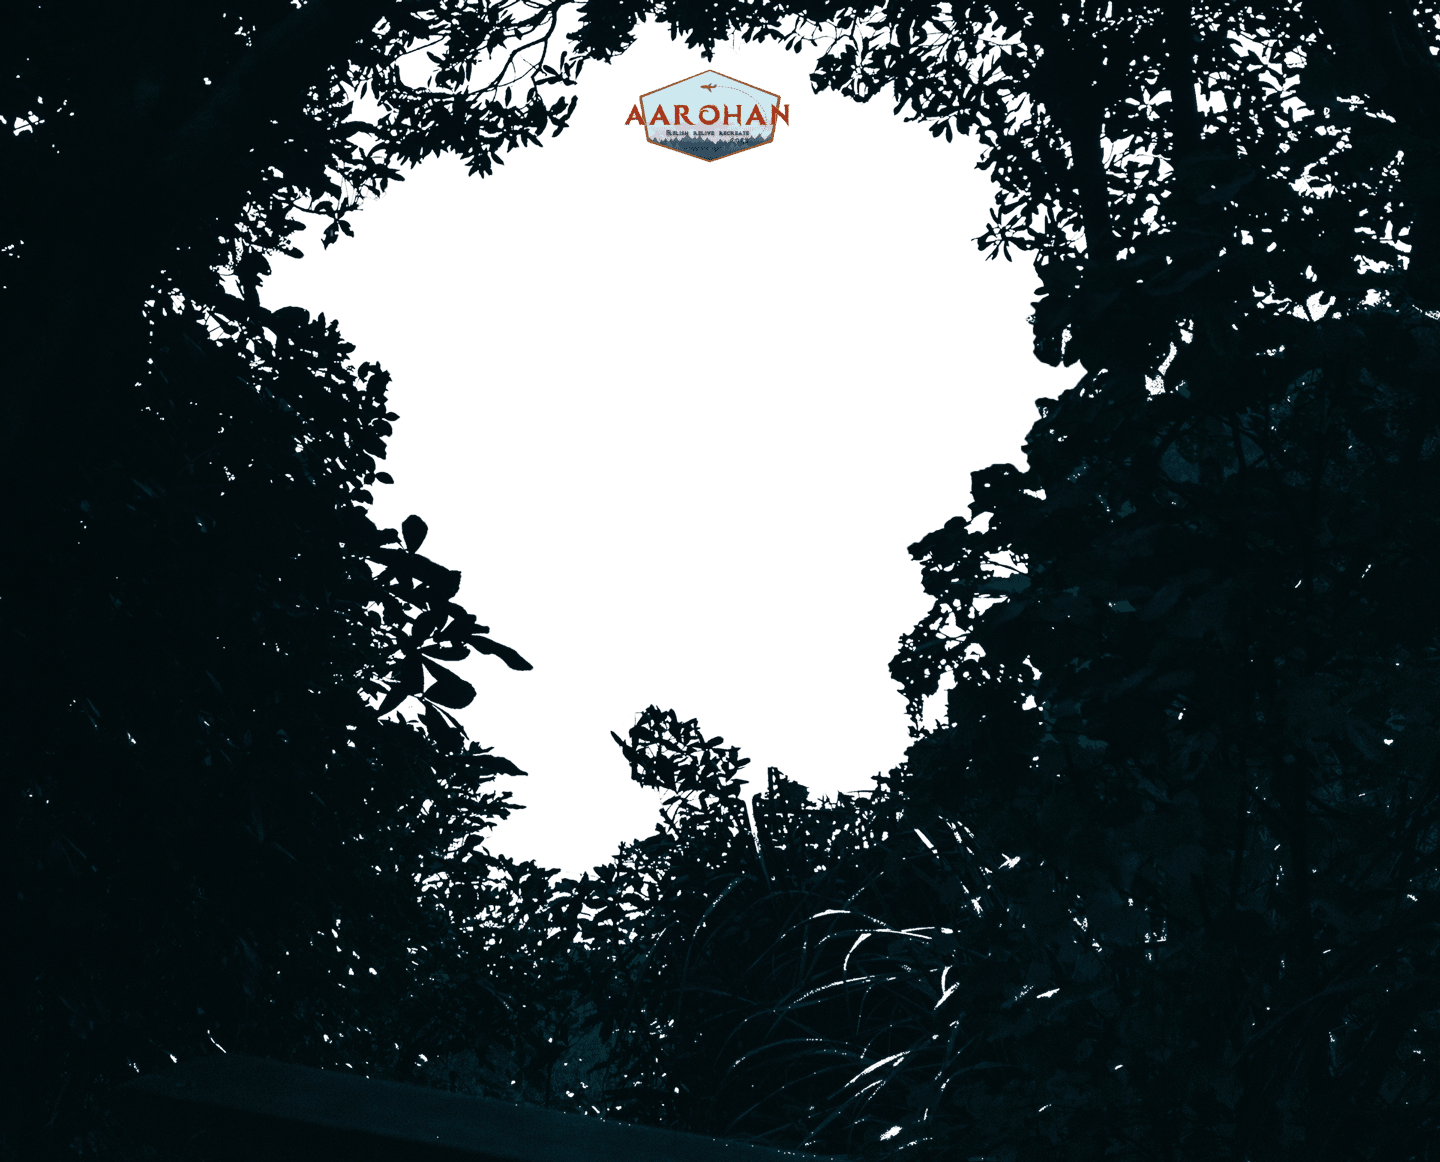
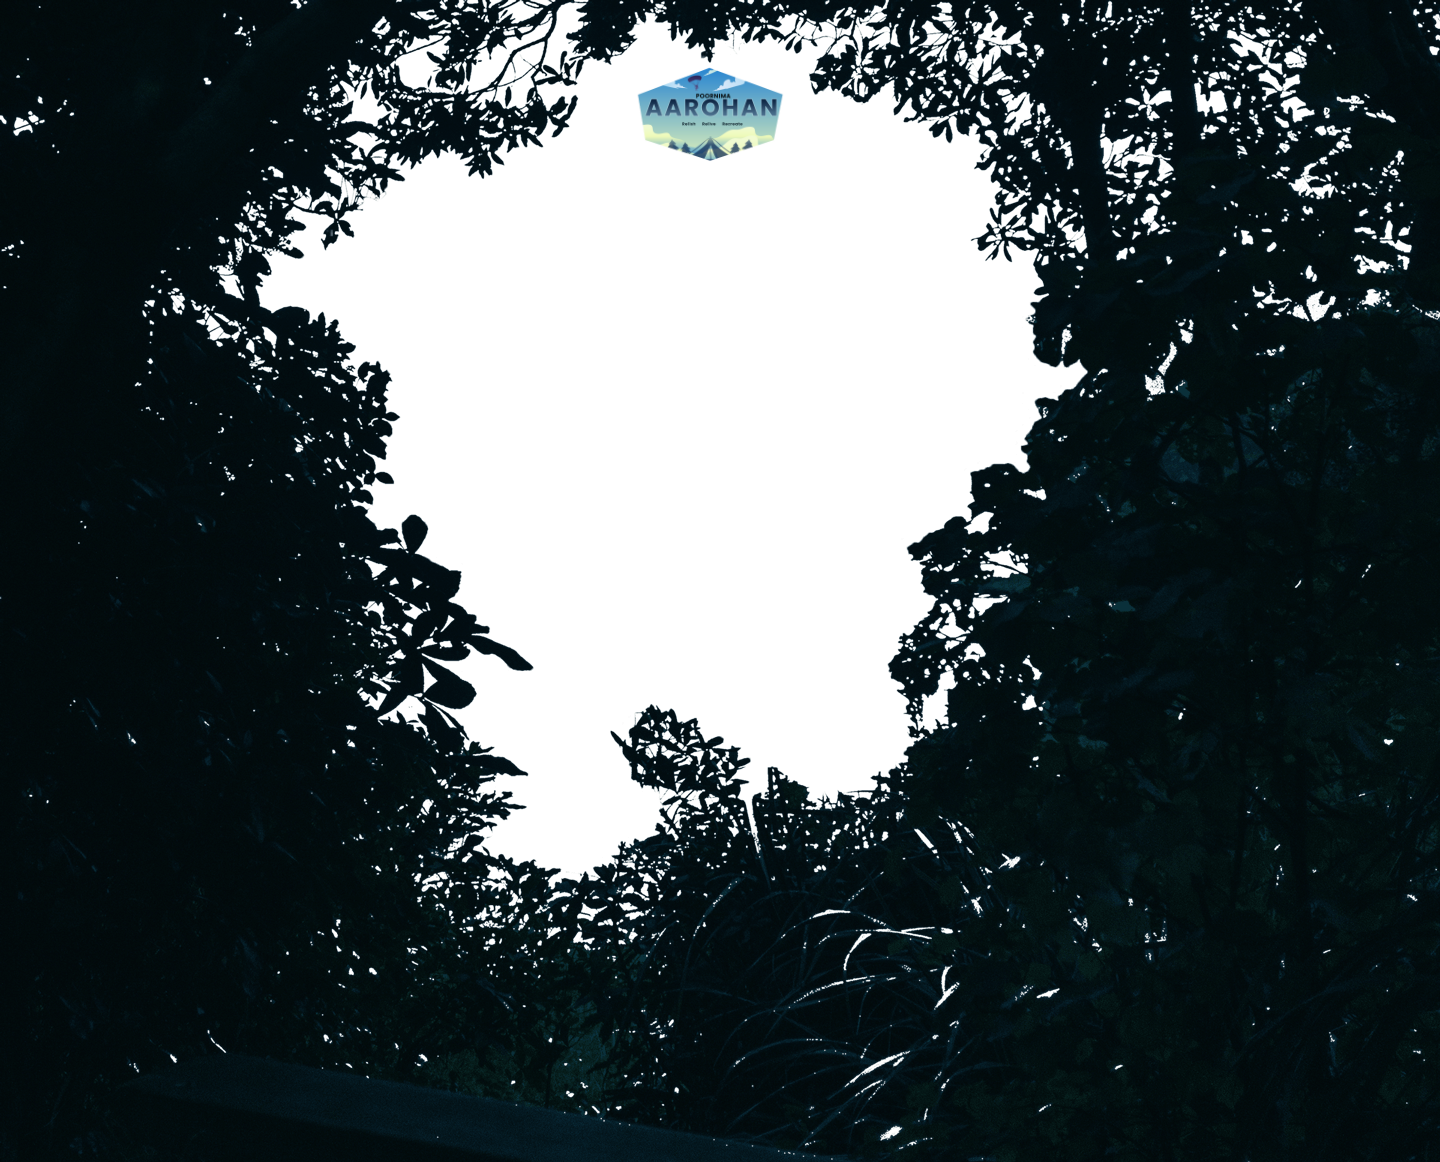
minor changes

Changed region(s): [[0.4375, 0.062, 0.5625, 0.1549]]

diff --git a/index.html b/index.html
@@ -1034,11 +1034,8 @@
 			<div class="hero-parent">
 				<div data-w-id="d71726fa-8aba-407f-0581-2d6e6f566dc1" style="opacity:0" class="sub-title">
 					Poornima Aarohan
-				</div><img src="tagl.png" width="428"
-					srcset="tagl.png 500w, https://uploads-ssl.webflow.com/5cff83ac2044e22cb8cf2f11/5cffeb65d43eb732944316c4_logo-p-800.png 800w, tagl.png 856w"
-					sizes="(max-width: 479px) 80vw, 428px" data-w-id="ca84ad73-51dc-7491-b9e2-9fc26309c49d"
-					style="opacity:0;-webkit-transform:translate3d(0, 50PX, 0) scale3d(1, 1, 1) rotateX(0) rotateY(0) rotateZ(0) skew(0, 0);-moz-transform:translate3d(0, 50PX, 0) scale3d(1, 1, 1) rotateX(0) rotateY(0) rotateZ(0) skew(0, 0);-ms-transform:translate3d(0, 50PX, 0) scale3d(1, 1, 1) rotateX(0) rotateY(0) rotateZ(0) skew(0, 0);transform:translate3d(0, 50PX, 0) scale3d(1, 1, 1) rotateX(0) rotateY(0) rotateZ(0) skew(0, 0)"
-					alt="" class="logo-lg" />
+				</div>
+				<p width="428" sizes="(max-width: 479px) 80vw, 428px" data-w-id="ca84ad73-51dc-7491-b9e2-9fc26309c49d" style="opacity: 1;font-family: cursive;transform: translate3d(0px, 0px, 0px) scale3d(1, 1, 1) rotateX(0deg) rotateY(0deg) rotateZ(0deg) skew(0deg, 0deg);font-size: 1.3rem;transform-style: preserve-3d;color: white;" alt="" class="logo-lg">Relish Relive Recreate</p>
 			</div>
 			<div class="intro-parent">
 				<h1 class="head">About Poornima Aarohan</h1>

diff --git a/webflow.css b/webflow.css
@@ -104,7 +104,7 @@ li {
   margin-left: 0px;
   font-family: Abuget, sans-serif;
   color: #fff;
-  font-size: 50px;
+  font-size: 80px;
   line-height: 40px;
   font-weight: 400;
 }
@@ -283,7 +283,7 @@ li {
   overflow: visible;
   width: 100%;
   height: 150vh;
-  background-image: url("img/parallex/leafs.png");
+  background-image: url("img/parallex/leafsM.png");
   background-position: 50% 50%;
   background-size: cover;
   background-repeat: no-repeat;
@@ -2040,6 +2040,10 @@ li {
 }
 
 @media (max-width: 991px) {
+  .sub-title{
+    font-size: 50px;
+
+  }
   .text-a-1 {
     width: 75%;
     margin-top: 10px;
